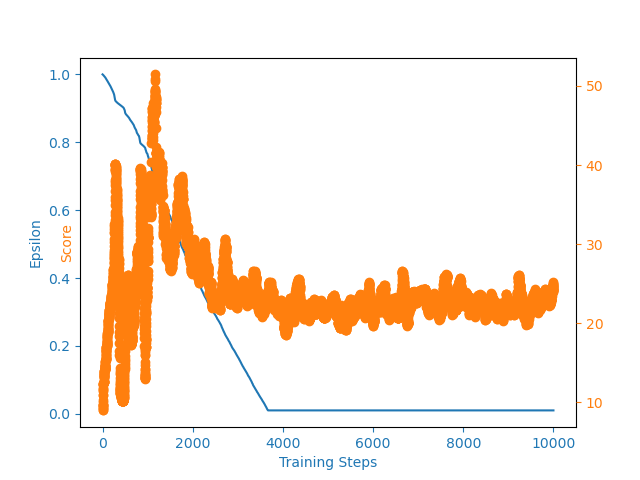
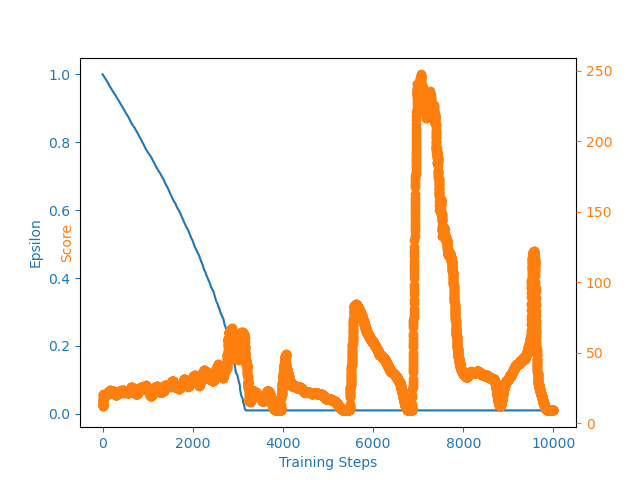
bugfix for epsilon greedy

diff --git a/naive_deep_q/cartpole_naive_dqn.py b/naive_deep_q/cartpole_naive_dqn.py
@@ -16,7 +16,7 @@ class LinearDeepQNetwork(nn.Module):
         self.fc2 = nn.Linear(128, n_actions)
         
         self.optimizer = optim.Adam(self.parameters(), lr=lr)
-        self.loss = nn.MSELoss()
+        self.loss = nn.MSELoss() # Why MSE Loss?
         
         self.device = torch.device("cuda:0" if torch.cuda.is_available() else "cpu")
         self.to(self.device)
@@ -39,12 +39,15 @@ class Agent():
         self.eps_dec = eps_dec
         self.eps_min = eps_min
         
-        self.action_space = [i for i in range(self.n_actions)]
+        # Why is it defined this way?
+        self.action_space = [i for i in range(self.n_actions)] 
 
+        # Q is our state action value 
+        # We approximate Q with out DeepQN
         self.Q = LinearDeepQNetwork(self.lr, self.n_actions, self.input_dims)
 
     def choose_action(self, observation):
-        if np.random.random() < self.epsilon:
+        if np.random.random() > self.epsilon:
             state = torch.tensor(observation, dtype=torch.float).to(self.Q.device)
             actions = self.Q.forward(state)
             action = torch.argmax(actions).item()
@@ -55,7 +58,7 @@ class Agent():
 
     def decrement_epsilon(self):
         if self.epsilon > self.eps_min:
-            self.epsilon = self.epsilon -self.eps_dec
+            self.epsilon = self.epsilon - self.eps_dec
         else:
             self.epsilon = self.eps_min
 
